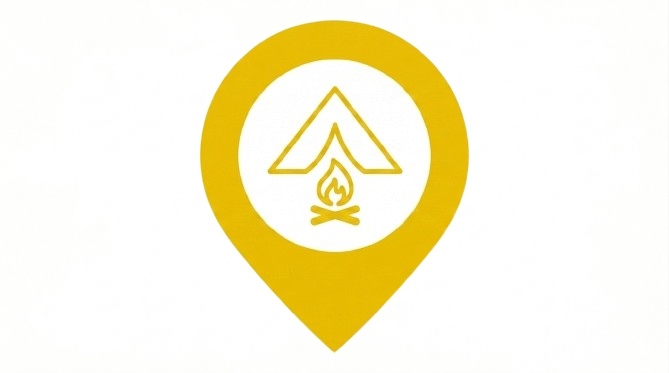
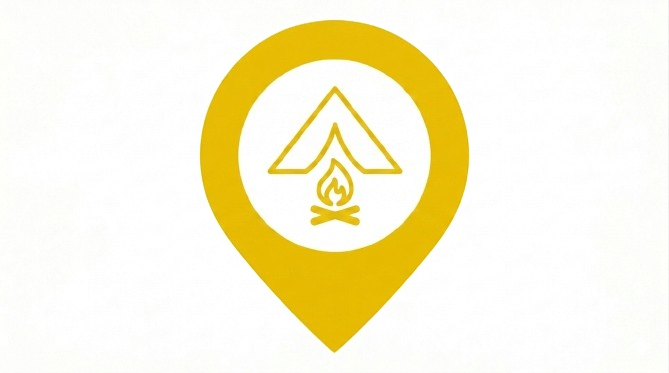
deploy: ec7228096ec3ea4e7b9579c3e1fe497fc7d780f9

diff --git a/maplibre-map.js b/maplibre-map.js
@@ -2092,20 +2092,6 @@ function createSVGPinImage(poiType, size = 50) {
             const dx = (size - drawW) / 2;
             const dy = (size - drawH) / 2;
             ctx.drawImage(img, minX, minY, cw, ch, dx, dy, drawW, drawH);
-            // Normalizar alpha: píxeles semi-opacos con color (no blanco/transparente)
-            // pasan a 255 para evitar que pines semi-transparentes se vean lavados.
-            // Se excluyen píxeles near-white (fondos blancos con alpha bajo).
-            const id = ctx.getImageData(0, 0, size, size);
-            const d = id.data;
-            for (let i = 3; i < d.length; i += 4) {
-              if (d[i] > 30 && d[i] < 240) {
-                // Excluir solo near-white con alpha MUY bajo (fondo blanco mal exportado).
-                // Near-white con alpha >= 80 es parte real del pin (círculo interior, etc.)
-                const isNearWhite = d[i-3] > 200 && d[i-2] > 200 && d[i-1] > 200;
-                if (!isNearWhite || d[i] >= 80) d[i] = 255;
-              }
-            }
-            ctx.putImageData(id, 0, 0);
           } else {
             ctx.drawImage(img, 0, 0, size, size);
           }
